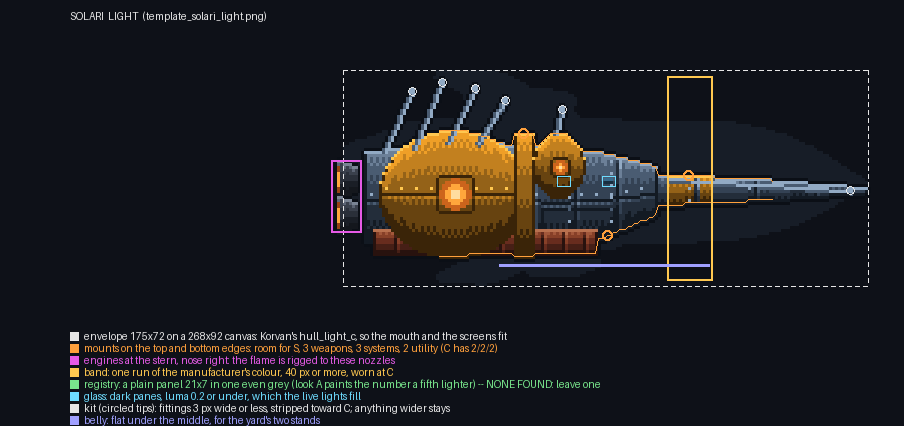
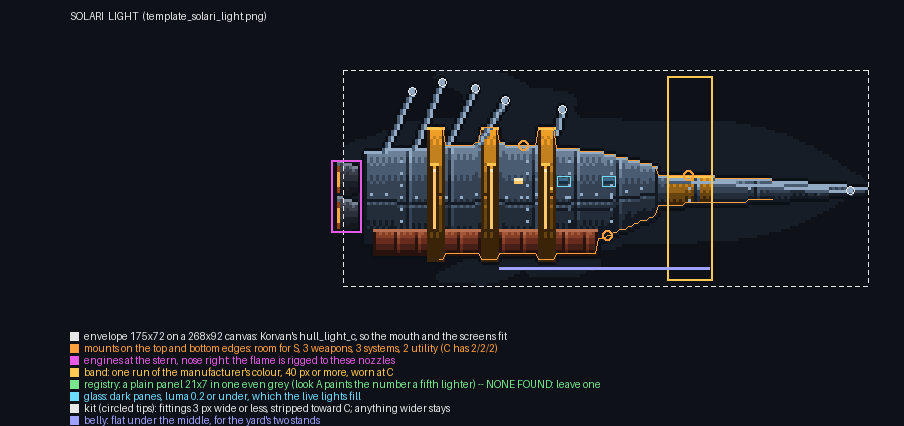
Hull templates: Solari's reactor spheres become reactor rings (Jon's look A)
Claude-Session: https://claude.ai/code/session_01FQemMvme1wfvjCSMpMkDgS

Changed region(s): [[0.4027, 0.2746, 0.8053, 0.6408]]

diff --git a/tkg/art/tools/hull_template.py b/tkg/art/tools/hull_template.py
@@ -127,16 +127,25 @@ def P(shape, mat='steel', **kw):
     return d
 
 
+def rings(x0, x1, top, bot, n):
+    """Solari's reactor rings: n brass hoops clamped round the hull between x0
+    and x1, standing proud of it, a hot seam glowing down each (Jon, Oct 15:
+    "I just don't like the middle circles", then look A of three)."""
+    out = []
+    for i in range(n):
+        cx = x0 + (x1 - x0) * (i + .5) / n
+        out.append(P(('rect', cx - .014, top - .07, cx + .014, bot + .05), 'acc', rivets=True, belt=.5))
+        out.append(P(('rect', cx - .005, top + .1, cx + .005, bot - .1), 'acc', ports=[(.1, 0, 1, 1, 2, 30, 1)]))
+    return out
+
+
 SPECS = {
  'solari': {
   'light': {'parts': [
      P(('prof', [(.44, .47, .65), (.8, .51, .61), (1, .55, .57)]), seams=20, rivets=True, band=(.62, .70)),
      P(('prof', [(.04, .38, .80), (.28, .34, .84), (.48, .38, .80), (.60, .45, .68)]), seams=14, rivets=True, belt=.55,
        ports=[(.32, .45, .9, 3, 3, 2, 1)], hatch=[(.6, .6, .85, .85)]),
-     P(('rect', .06, .74, .48, .86), 'brick', seams=7),
-     P(('ell', .21, .58, .14, .30), 'acc', belt=.5, lens=5, rivets=True),
-     P(('rect', .33, .30, .36, .88), 'acc', rivets=True),
-     P(('ell', .41, .44, .05, .15), 'acc', lens=2)],
+     P(('rect', .06, .74, .48, .86), 'brick', seams=7)] + rings(.12, .44, .34, .84, 3),
    'kit': [[(.08, .38), (.13, .10)], [(.14, .36), (.19, .06)], [(.2, .34), (.25, .08)], [(.26, .34), (.31, .14)],
            [(.62, .50), (.97, .56)], [(.41, .30), (.42, .18)]],
    'noz': [(.50, .12), (.68, .12)]},
@@ -144,9 +153,7 @@ SPECS = {
      P(('prof', [(0, .40, .76), (.1, .34, .82), (.62, .34, .82), (.82, .38, .76), (.96, .44, .70), (1, .50, .64)]), seams=18,
        rivets=True, belt=.48, ports=[(.3, .62, .8, 4, 3, 2, 2)], band=(.68, .74)),
      P(('rect', .82, .36, .98, .70), 'steel', seams=6, rivets=True),
-     P(('rect', .06, .78, .80, .88), 'brick', seams=9),
-     P(('ell', .42, .56, .11, .42), 'acc', belt=.5, lens=6, rivets=True, lattice=True),
-     P(('ell', .21, .54, .065, .27), 'acc', lens=3, rivets=True)],
+     P(('rect', .06, .78, .80, .88), 'brick', seams=9)] + rings(.12, .56, .34, .82, 3),
    'kit': [[(.11, .33), (.15, .12)], [(.18, .32), (.22, .08)], [(.26, .32), (.3, .1)], [(.52, .32), (.56, .06)],
            [(.6, .33), (.64, .12)], [(.68, .34), (.72, .16)]],
    'noz': [(.48, .12), (.64, .12)]},
@@ -154,10 +161,8 @@ SPECS = {
      P(('prof', [(0, .40, .82), (.08, .34, .90), (.62, .34, .92), (.86, .40, .82), (1, .56, .66)]), seams=20, rivets=True,
        belt=.5, ports=[(.28, .66, .84, 4, 3, 2, 2)], band=(.76, .82), hatch=[(.06, .6, .14, .8)]),
      P(('rect', .02, .82, .86, .94), 'brick', seams=10),
-     P(('ell', .45, .58, .13, .38), 'acc', belt=.5, lens=8, rivets=True, lattice=True),
      P(('rect', .29, .18, .36, .36), 'rust', seams=5, rivets=True),
-     P(('rect', .36, .2, .38, .96), 'acc'), P(('rect', .52, .2, .54, .96), 'acc'),
-     P(('poly', [(.92, .44), (1, .56), (1, .66), (.92, .70)]), 'gun')],
+     P(('poly', [(.92, .44), (1, .56), (1, .66), (.92, .70)]), 'gun')] + rings(.26, .62, .34, .92, 4),
    'kit': [[(.18, .32), (.21, .02)], [(.23, .32), (.26, .0)], [(.4, .22), (.42, .0)], [(.48, .2), (.5, .02)],
            [(.58, .3), (.61, .06)], [(.64, .32), (.67, .1)], [(.70, .33), (.73, .14)]],
    'noz': [(.50, .14), (.72, .14)]},
